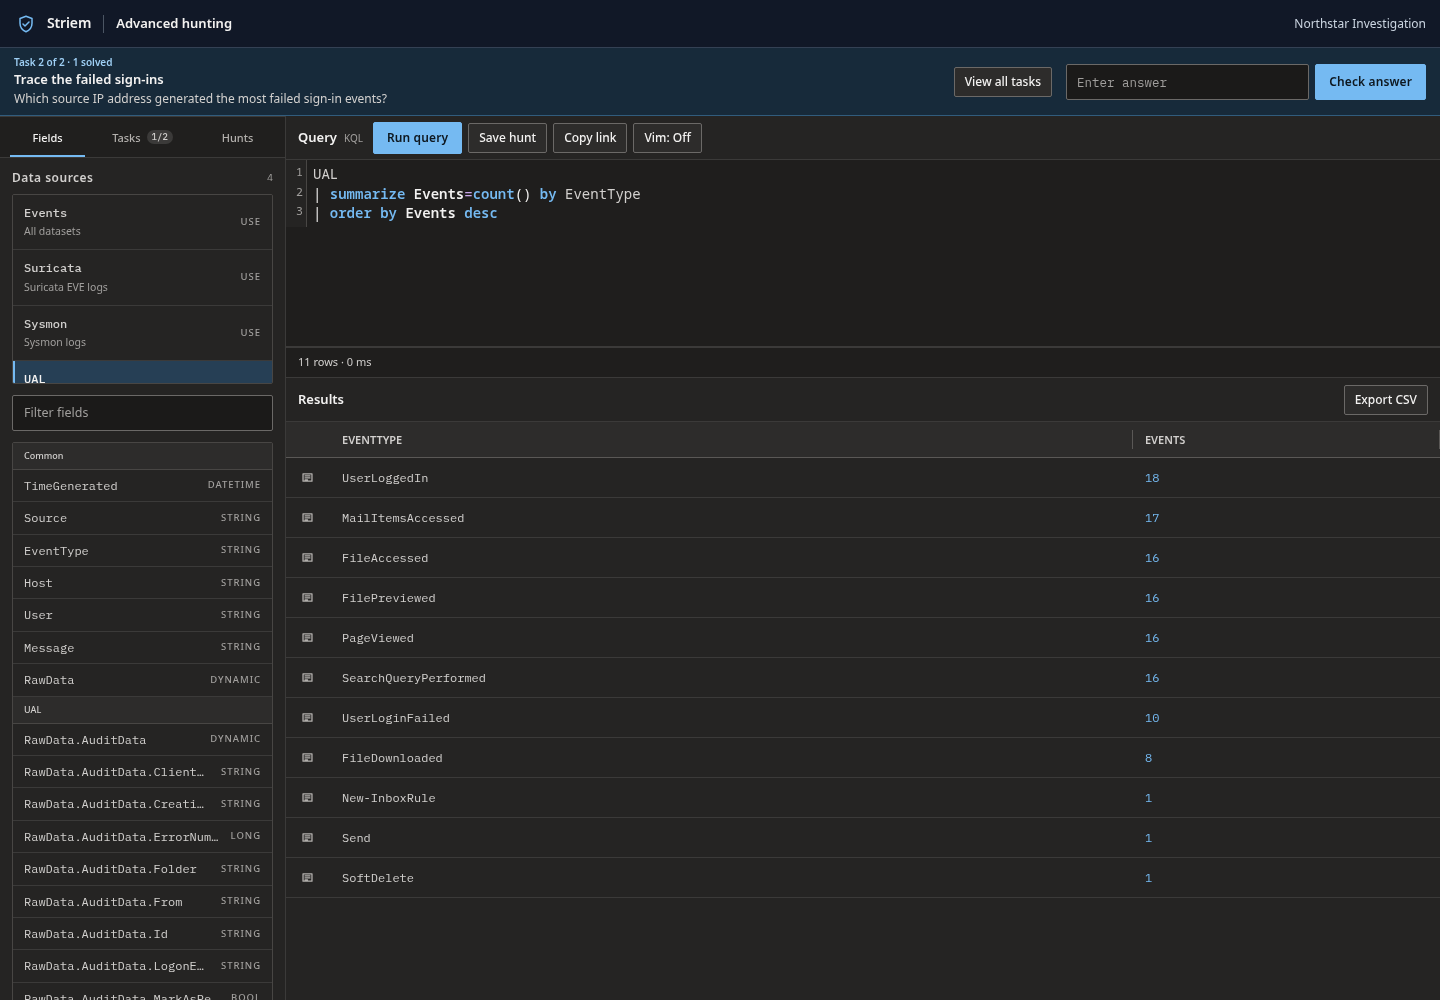
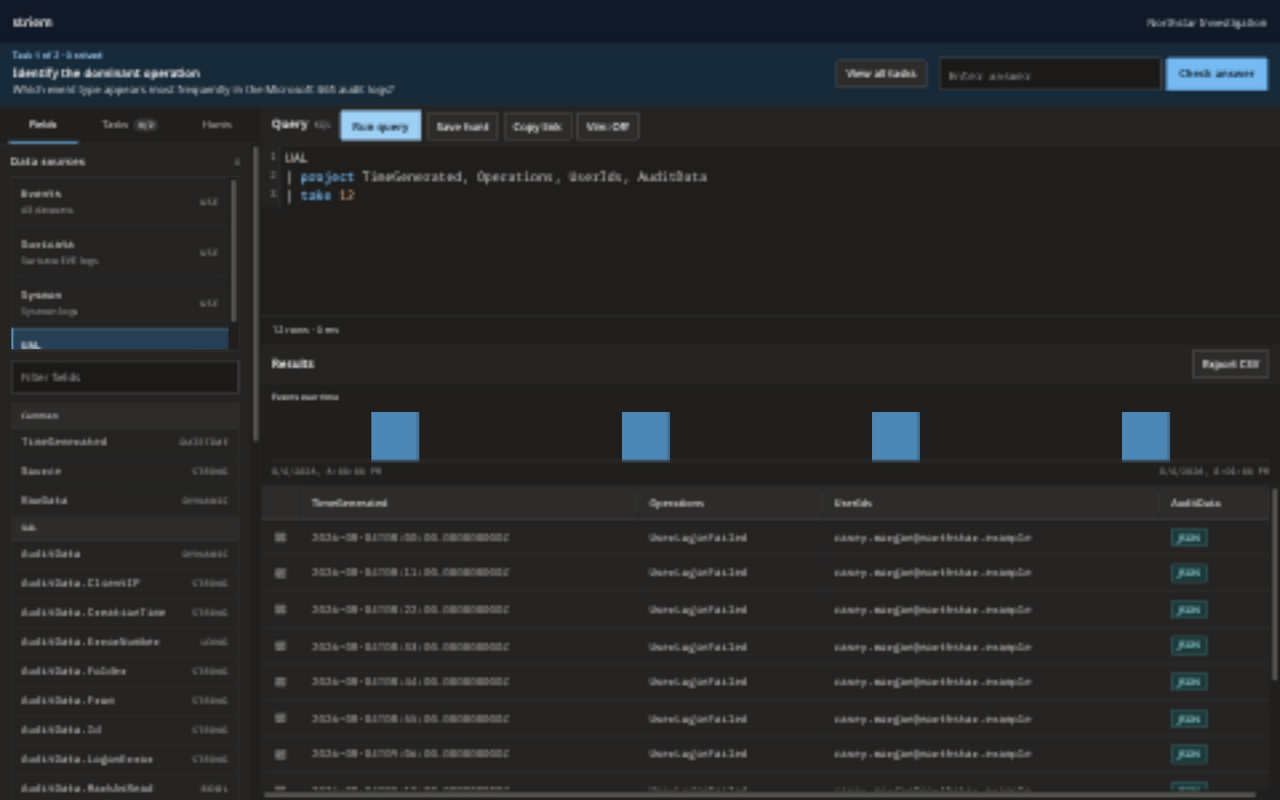
docs: refresh interface guide and screenshot

diff --git a/README.md b/README.md
@@ -248,6 +248,8 @@ Events
 | order by TimeGenerated desc
 ```
 
+Press `Shift+Enter` in the query editor to run the current query. Press `Ctrl+Enter` to insert a new pipeline line beginning with `|`. JSON badges in query results open that cell's structured value in the searchable JSON viewer.
+
 The navigation bar shows the project and challenge names. The browser keeps recent hunts, named saved hunts, and answer drafts in local storage. Copy link creates a URL containing the current query. Results that include `TimeGenerated` display a selectable histogram of the visible rows.
 
 KQL parsing, schema binding, and relational SQL lowering are provided by [`github.com/kawijayaa/ksql`](https://github.com/kawijayaa/ksql) v0.4.0. Supported tabular operators are:
